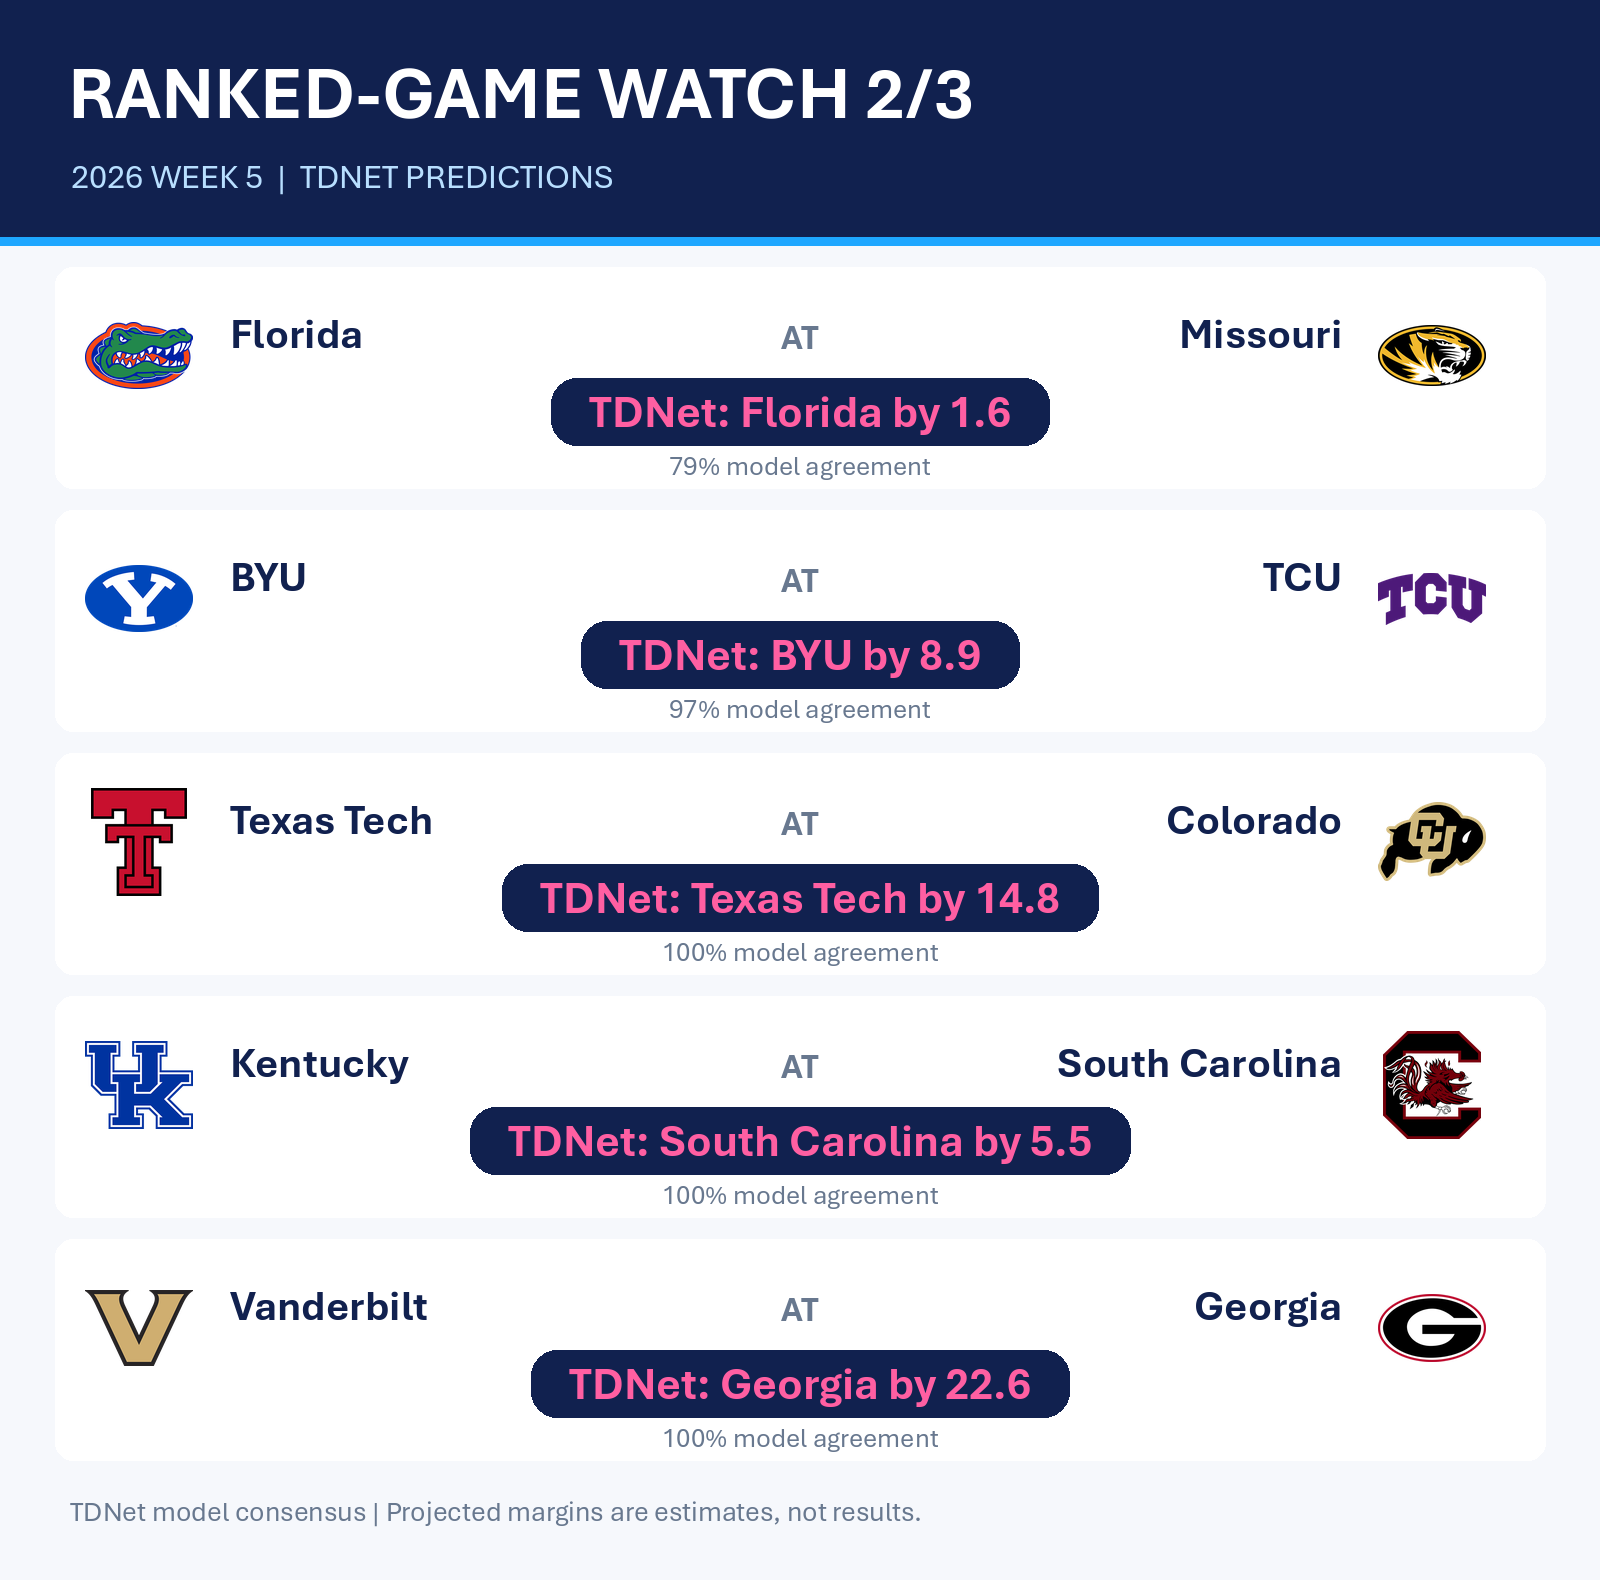
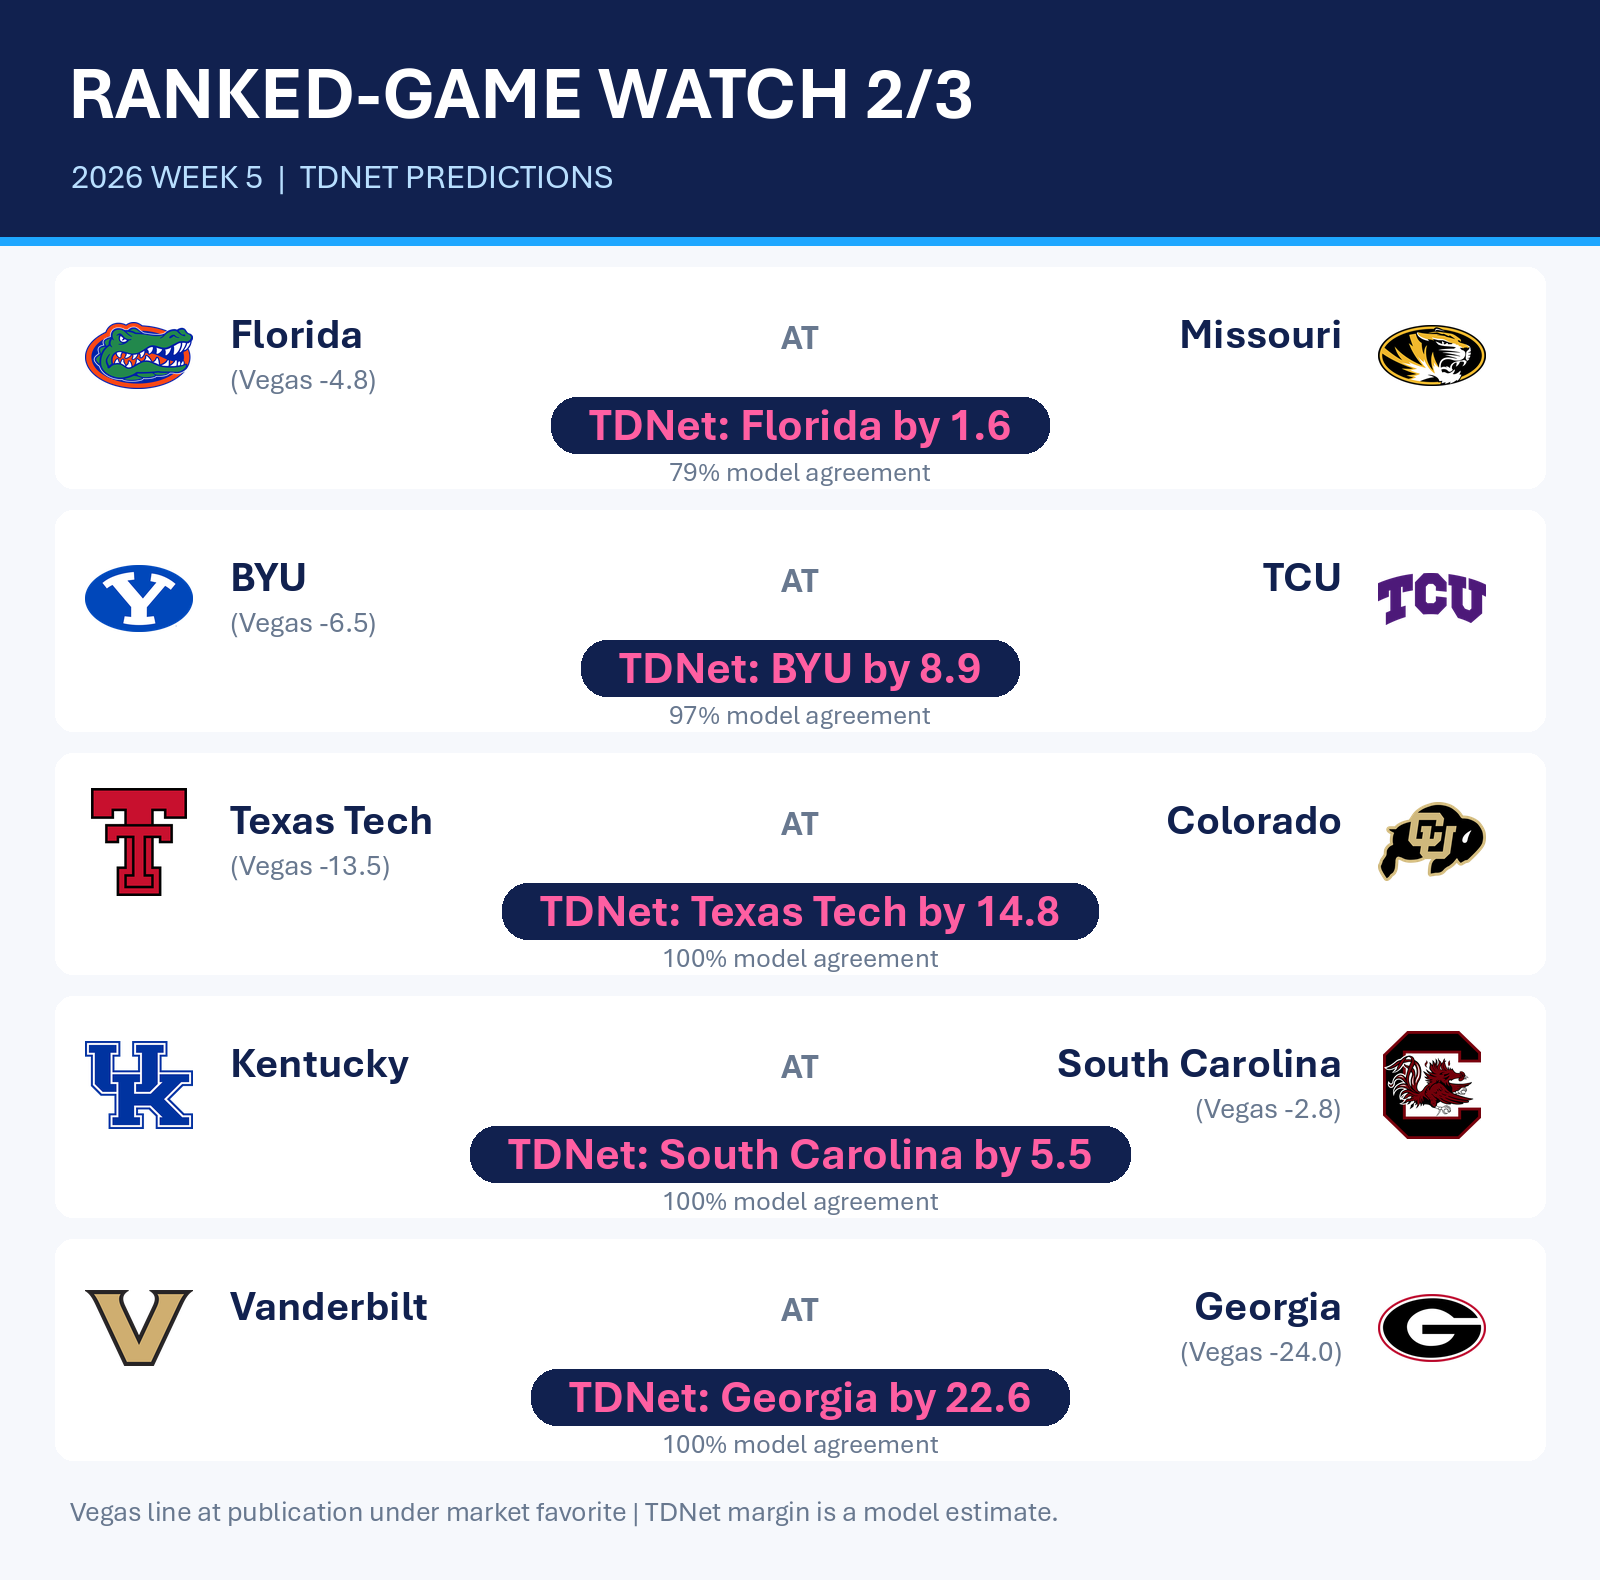
Show published Vegas lines on social matchup cards

diff --git a/scripts/publication/build_social_media.py b/scripts/publication/build_social_media.py
@@ -9,6 +9,7 @@ from __future__ import annotations
 
 import argparse
 from hashlib import sha256
+from math import isfinite
 from pathlib import Path
 import re
 import shutil
@@ -104,7 +105,11 @@ def render_poll(path: Path, poll: pd.DataFrame, season: int, week: int) -> None:
 def render_games(path: Path, games: pd.DataFrame, title: str, subtitle: str) -> None:
     if not 1 <= len(games) <= 5:
         raise ValueError("A matchup card needs one to five games")
-    canvas, draw, step = base_card(title, subtitle, "TDNet model consensus | Projected margins are estimates, not results.", len(games))
+    canvas, draw, step = base_card(
+        title, subtitle,
+        "Vegas line at publication under market favorite | TDNet margin is a model estimate.",
+        len(games),
+    )
     for i, row in enumerate(games.itertuples(index=False)):
         y = 267 + i * step
         draw.rounded_rectangle((55, y, 1545, y + 221), 18, fill="white")
@@ -113,6 +118,18 @@ def render_games(path: Path, games: pd.DataFrame, title: str, subtitle: str) -> 
         draw.text((230, y + 67), row.away_team, font=fit_text(draw, row.away_team, 440, 42, bold=True), fill=NAVY, anchor="lm")
         draw.text((800, y + 70), "AT", font=font(35, True), fill=MUTED, anchor="mm")
         draw.text((1342, y + 67), row.home_team, font=fit_text(draw, row.home_team, 440, 42, bold=True), fill=NAVY, anchor="rm")
+        spread = float(row.vegas_spread_as_of_publish)
+        if not isfinite(spread):
+            raise ValueError(f"No published Vegas line for game {row.game_id}")
+        if spread == 0:
+            draw.text((800, y + 112), "(Vegas PK)", font=font(29), fill=MUTED, anchor="mm")
+        else:
+            market_favorite_is_away = spread > 0  # Published spread is from the home team's perspective.
+            market_label = f"(Vegas -{abs(spread):.1f})"
+            if market_favorite_is_away:
+                draw.text((230, y + 112), market_label, font=font(29), fill=MUTED, anchor="lm")
+            else:
+                draw.text((1342, y + 112), market_label, font=font(29), fill=MUTED, anchor="rm")
         margin = float(row.predicted_margin)
         pick = "Essentially even" if margin < 0.05 else f"{row.pred_winner} by {margin:.1f}"
         prediction = f"TDNet: {pick}"
@@ -120,12 +137,12 @@ def render_games(path: Path, games: pd.DataFrame, title: str, subtitle: str) -> 
         text_width = draw.textbbox((0, 0), prediction, font=prediction_font)[2]
         half_width = (text_width + 76) // 2
         draw.rounded_rectangle(
-            (800 - half_width, y + 111, 800 + half_width, y + 178),
+            (800 - half_width, y + 130, 800 + half_width, y + 186),
             radius=26,
             fill=NAVY,
         )
-        draw.text((800, y + 145), prediction, font=prediction_font, fill=PINK, anchor="mm")
-        draw.text((800, y + 199), f"{float(row.model_agreement):.0%} model agreement", font=font(27), fill=MUTED, anchor="mm")
+        draw.text((800, y + 158), prediction, font=prediction_font, fill=PINK, anchor="mm")
+        draw.text((800, y + 205), f"{float(row.model_agreement):.0%} model agreement", font=font(27), fill=MUTED, anchor="mm")
     canvas.save(path, optimize=True)
 
 
@@ -209,11 +226,11 @@ def build(season: int, week: int, output: Path) -> list[Path]:
         render_games(output / f"{stem}.png", group, f"RANKED-GAME WATCH {part + 1}/{ranked_groups}", f"{season} WEEK {week}  |  TDNET PREDICTIONS")
         close = group.sort_values("predicted_margin").iloc[0]
         matchup = f"{close.away_team} at {close.home_team}"
-        add(stem, f"{len(group)} Week {week} games involving AP-ranked teams. The tightest projection here: {matchup}, {close.pred_winner} by {float(close.predicted_margin):.1f}. #CFB #CollegeFootball #CFBPredictions", "Ranked-team games with both team logos, TDNet projected winner and margin, and model agreement.", [games_path])
+        add(stem, f"{len(group)} Week {week} games involving AP-ranked teams. The tightest projection here: {matchup}, {close.pred_winner} by {float(close.predicted_margin):.1f}. #CFB #CollegeFootball #CFBPredictions", "Ranked-team games with team logos, TDNet projected winner and margin, model agreement, and the published Vegas line beneath the market favorite.", [games_path])
 
     close5 = closest.head(5)
     render_games(output / "07_closest_games.png", close5, "FIVE GAMES ON THE EDGE", f"{season} WEEK {week}  |  SMALLEST PROJECTED MARGINS")
-    add("07_closest_games", f"Week {week}'s five closest TDNet projections are all within {float(close5['predicted_margin'].max()):.1f} points. Which one goes down to the wire? #CFB #CollegeFootball #CFBPredictions", "Five games with the smallest absolute TDNet projected margins, team logos, and model agreement.", [closest_path])
+    add("07_closest_games", f"Week {week}'s five closest TDNet projections are all within {float(close5['predicted_margin'].max()):.1f} points. Which one goes down to the wire? #CFB #CollegeFootball #CFBPredictions", "Five games with the smallest TDNet projected margins, team logos, model agreement, and the published Vegas line beneath the market favorite.", [closest_path])
 
     gaps = render_poll_gaps(output / "08_tdnet_vs_ap.png", poll, season, week)
     leader = gaps.iloc[0]
@@ -221,14 +238,14 @@ def build(season: int, week: int, output: Path) -> list[Path]:
 
     split5 = all_games.sort_values(["model_agreement", "game_id"]).head(5)
     render_games(output / "09_model_splits.png", split5, "WHERE MODELS SPLIT", f"{season} WEEK {week}  |  LOWEST PICK AGREEMENT")
-    add("09_model_splits", f"The TDNet models disagree most on these five Week {week} games. The closest vote is just {float(split5['model_agreement'].min()):.0%} for one side. #CFB #CollegeFootball #CFBPredictions", "Five games with the lowest fraction of TDNet models picking the consensus winner, with team logos and projected margins.", [all_games_path])
+    add("09_model_splits", f"The TDNet models disagree most on these five Week {week} games. The closest vote is just {float(split5['model_agreement'].min()):.0%} for one side. #CFB #CollegeFootball #CFBPredictions", "Five games with the lowest model agreement, team logos, TDNet projected margins, and the published Vegas line beneath the market favorite.", [all_games_path])
 
     index = [f"# {season} Week {week} social media pack", "", f"{len(created)} graphics with captions in matching `.md` files. Pick five or six to schedule on Monday. All figures use the published Week {week} snapshot; game predictions can become stale after kickoff.", "", "| Graphic | Topic |", "| --- | --- |"]
     topics = {"01_ratings_comparison": "Eight-system ratings table", "02_rating_rank_disagreement": "Rating-system rank disagreement", "03_tdnet_top10": "TDNet Top 10", "04_ranked_games_1": "Ranked games, part 1", "05_ranked_games_2": "Ranked games, part 2", "06_ranked_games_3": "Ranked games, part 3", "07_closest_games": "Closest projected games", "08_tdnet_vs_ap": "TDNet vs. AP poll gaps", "09_model_splits": "Games with the lowest model agreement"}
     for image in created:
         topic = topics[image.stem]
         index.append(f"| [{image.name}]({image.name}) | {topic}; [caption]({image.stem}.md) |")
-    index.extend(["", "Review the image and caption before scheduling. Post game previews before the relevant kickoff; avoid sharing outdated predictions after results are known. Captions omit links to keep them short. Team logos come from the repository's logo set.", ""])
+    index.extend(["", "The parenthetical Vegas line is the spread captured at publication, shown beneath the market favorite; it can differ from the TDNet pick. Review the image and caption before scheduling. Post game previews before the relevant kickoff; avoid sharing outdated predictions after results are known. Captions omit links to keep them short. Team logos come from the repository's logo set.", ""])
     (output / "README.md").write_text("\n".join(index), encoding="utf-8")
     return created
 

diff --git a/social_media/README.md b/social_media/README.md
@@ -10,4 +10,6 @@ Replace the season and week for each Monday. The command reads published tables 
 
 The ratings comparison and rank-disagreement graphics are included when their published table and both figures are present. The generator stops if only part of that ratings set exists. It requires a completed pregame package and never fetches live scores or changes prediction data.
 
+Matchup cards show each game's Vegas spread captured at publication in parentheses beneath the market favorite. That line can differ from the TDNet predicted winner or margin. A missing published line stops generation rather than leaving a game unlabeled.
+
 On Monday, review the pack, choose five or six posts, and schedule game previews before their kickoffs. Rankings and ratings can stay relevant longer; do not schedule a prediction after the game. The captions deliberately omit URLs, so you can paste them directly into X and add a link only when useful.

diff --git a/social_media/2026/week_05/README.md b/social_media/2026/week_05/README.md
@@ -14,4 +14,4 @@
 | [08_tdnet_vs_ap.png](08_tdnet_vs_ap.png) | TDNet vs. AP poll gaps; [caption](08_tdnet_vs_ap.md) |
 | [09_model_splits.png](09_model_splits.png) | Games with the lowest model agreement; [caption](09_model_splits.md) |
 
-Review the image and caption before scheduling. Post game previews before the relevant kickoff; avoid sharing outdated predictions after results are known. Captions omit links to keep them short. Team logos come from the repository's logo set.
+The parenthetical Vegas line is the spread captured at publication, shown beneath the market favorite; it can differ from the TDNet pick. Review the image and caption before scheduling. Post game previews before the relevant kickoff; avoid sharing outdated predictions after results are known. Captions omit links to keep them short. Team logos come from the repository's logo set.

diff --git a/social_media/2026/week_05/09_model_splits.md b/social_media/2026/week_05/09_model_splits.md
@@ -4,7 +4,7 @@ The TDNet models disagree most on these five Week 5 games. The closest vote is j
 
 ## Image alt text
 
-Five games with the lowest fraction of TDNet models picking the consensus winner, with team logos and projected margins.
+Five games with the lowest model agreement, team logos, TDNet projected margins, and the published Vegas line beneath the market favorite.
 
 ## Sources
 

diff --git a/social_media/2026/week_05/07_closest_games.md b/social_media/2026/week_05/07_closest_games.md
@@ -4,7 +4,7 @@ Week 5's five closest TDNet projections are all within 1.3 points. Which one goe
 
 ## Image alt text
 
-Five games with the smallest absolute TDNet projected margins, team logos, and model agreement.
+Five games with the smallest TDNet projected margins, team logos, model agreement, and the published Vegas line beneath the market favorite.
 
 ## Sources
 

diff --git a/social_media/2026/week_05/04_ranked_games_1.md b/social_media/2026/week_05/04_ranked_games_1.md
@@ -4,7 +4,7 @@
 
 ## Image alt text
 
-Ranked-team games with both team logos, TDNet projected winner and margin, and model agreement.
+Ranked-team games with team logos, TDNet projected winner and margin, model agreement, and the published Vegas line beneath the market favorite.
 
 ## Sources
 

diff --git a/social_media/2026/week_05/05_ranked_games_2.md b/social_media/2026/week_05/05_ranked_games_2.md
@@ -4,7 +4,7 @@
 
 ## Image alt text
 
-Ranked-team games with both team logos, TDNet projected winner and margin, and model agreement.
+Ranked-team games with team logos, TDNet projected winner and margin, model agreement, and the published Vegas line beneath the market favorite.
 
 ## Sources
 

diff --git a/social_media/2026/week_05/06_ranked_games_3.md b/social_media/2026/week_05/06_ranked_games_3.md
@@ -4,7 +4,7 @@
 
 ## Image alt text
 
-Ranked-team games with both team logos, TDNet projected winner and margin, and model agreement.
+Ranked-team games with team logos, TDNet projected winner and margin, model agreement, and the published Vegas line beneath the market favorite.
 
 ## Sources
 
